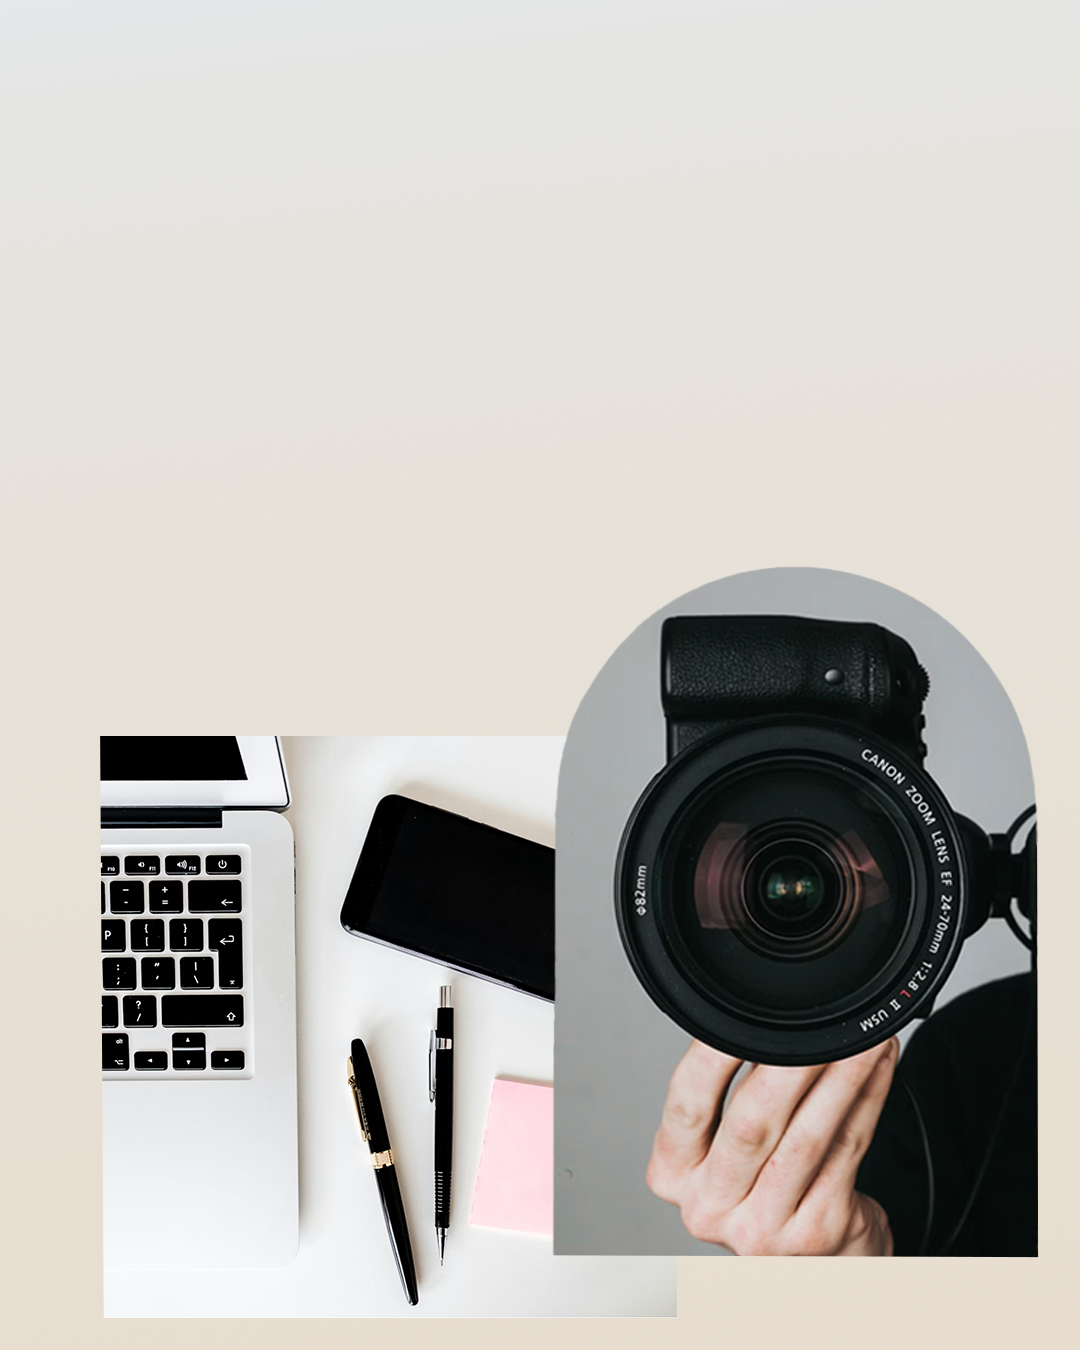
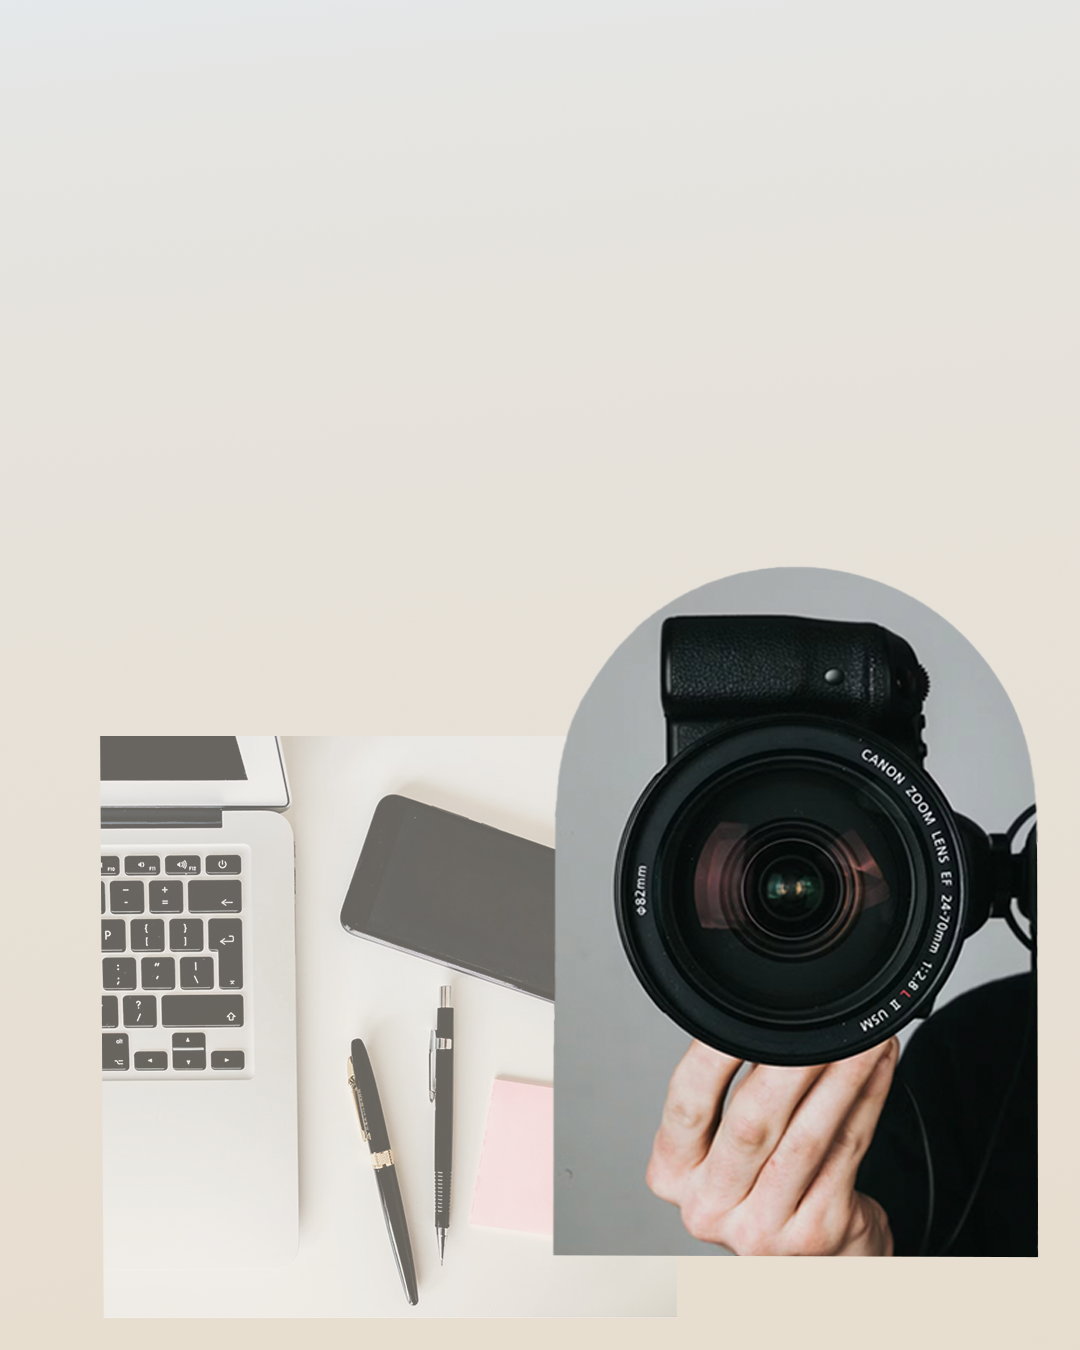
Shrink What We Do section + add mobile service lines
- Reduced section height (600px desktop, 500px mobile) for better image quality
- Added Photography/Video/Graphics lines back on mobile (compact stacked layout)
- Smaller text sizes on mobile for better fit
- Updated edited images

🤖 Generated with [Claude Code](https://claude.com/claude-code)

Changed region(s): [[0.275, 0.5911, 0.5194, 0.9644], [0.0917, 0.5289, 0.275, 0.8089]]

diff --git a/src/app/social/page.tsx b/src/app/social/page.tsx
@@ -184,7 +184,7 @@ function InterestMediaSection() {
 
 function WhatWeDoSection() {
   return (
-    <section className="relative min-h-[600px] md:min-h-[700px] lg:min-h-[800px] border-t border-[rgba(242,240,236,0.08)]">
+    <section className="relative min-h-[500px] md:min-h-[550px] lg:min-h-[600px] border-t border-[rgba(242,240,236,0.08)]">
       {/* Full-width background image - Desktop */}
       <div className="absolute inset-0 hidden lg:block">
         <Image
@@ -207,7 +207,7 @@ function WhatWeDoSection() {
 
       {/* Text content overlaying on the left negative space */}
       <div className="relative z-10 h-full">
-        <div className="max-w-[1400px] mx-auto px-6 py-16 md:py-20 lg:py-24">
+        <div className="max-w-[1400px] mx-auto px-6 py-12 md:py-16 lg:py-20">
           <motion.div
             initial={{ opacity: 0, y: 16 }}
             whileInView={{ opacity: 1, y: 0 }}
@@ -217,7 +217,7 @@ function WhatWeDoSection() {
           >
             {/* Label */}
             <p
-              className="text-[11px] uppercase tracking-[0.25em] text-[#222222]/60 mb-8"
+              className="text-[11px] uppercase tracking-[0.25em] text-[#222222]/60 mb-6 lg:mb-8"
               style={{ fontFamily: "var(--font-sans-inter)" }}
             >
               What We Do
@@ -225,7 +225,7 @@ function WhatWeDoSection() {
 
             {/* Large serif paragraph */}
             <p
-              className="text-[22px] md:text-[26px] font-normal text-[#222222]/90 leading-[1.55] tracking-[-0.005em] mb-0 lg:mb-12"
+              className="text-[20px] md:text-[24px] lg:text-[26px] font-normal text-[#222222]/90 leading-[1.55] tracking-[-0.005em] mb-8 lg:mb-12"
               style={{ fontFamily: "var(--font-serif)" }}
             >
               We develop social strategy, create content that resonates,
@@ -233,7 +233,53 @@ function WhatWeDoSection() {
               Every story reinforces who you are.
             </p>
 
-            {/* Photography, Video, Graphics lines - hidden on mobile */}
+            {/* Photography, Video, Graphics - Mobile (stacked) */}
+            <div className="lg:hidden space-y-3">
+              <div className="flex items-baseline gap-3">
+                <span
+                  className="text-[13px] text-[#222222]/50 w-[90px] shrink-0"
+                  style={{ fontFamily: "var(--font-sans-inter)" }}
+                >
+                  Photography
+                </span>
+                <span
+                  className="text-[13px] text-[#222222]/70"
+                  style={{ fontFamily: "var(--font-serif)" }}
+                >
+                  Styled shoots that tell your story
+                </span>
+              </div>
+              <div className="flex items-baseline gap-3">
+                <span
+                  className="text-[13px] text-[#222222]/50 w-[90px] shrink-0"
+                  style={{ fontFamily: "var(--font-sans-inter)" }}
+                >
+                  Video
+                </span>
+                <span
+                  className="text-[13px] text-[#222222]/70"
+                  style={{ fontFamily: "var(--font-serif)" }}
+                >
+                  Motion that captures attention
+                </span>
+              </div>
+              <div className="flex items-baseline gap-3">
+                <span
+                  className="text-[13px] text-[#222222]/50 w-[90px] shrink-0"
+                  style={{ fontFamily: "var(--font-sans-inter)" }}
+                >
+                  Graphics
+                </span>
+                <span
+                  className="text-[13px] text-[#222222]/70"
+                  style={{ fontFamily: "var(--font-serif)" }}
+                >
+                  Designed for the feed
+                </span>
+              </div>
+            </div>
+
+            {/* Photography, Video, Graphics - Desktop (with lines) */}
             <div className="hidden lg:block space-y-4">
               <div className="flex items-center gap-4">
                 <span
